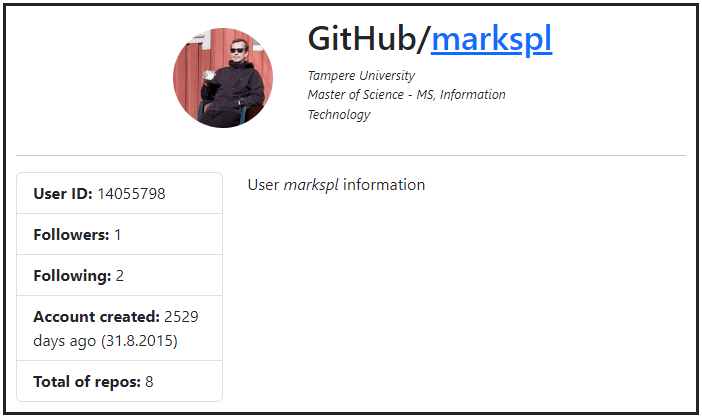
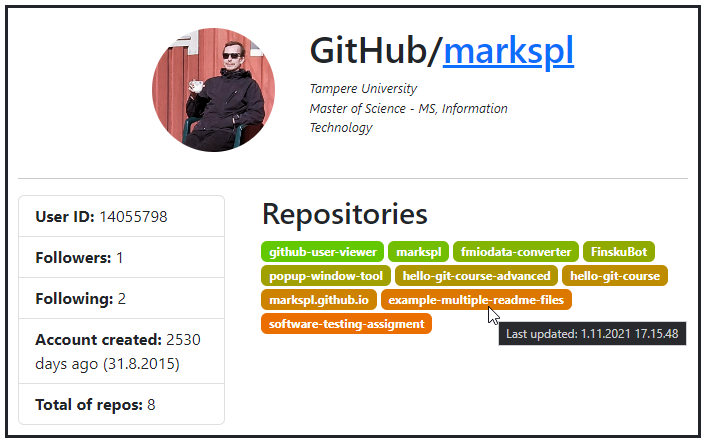
Show repositories arranged by last updated with colours

Changed region(s): [[0.0, 0.0, 1.0, 0.9952], [0.4188, 0.0622, 0.8376, 0.311], [0.2094, 0.0622, 0.3889, 0.3732]]

diff --git a/src/components/Repositories.jsx b/src/components/Repositories.jsx
@@ -1,0 +1,83 @@
+import React from "react";
+
+import { Container, Row, Badge } from "react-bootstrap";
+
+const Repositories = ({ data }) => {
+
+    const length = data.length;
+
+    const sortByUpdated = (array) => {
+
+        // Sort by comparing element.updated_at
+        const sorter = () => {
+            return function (a, b) {
+                if (a["updated_at"] < b["updated_at"]) return 1;
+                else if (a["updated_at"] > b["updated_at"]) return -1;
+                else return 0;
+            }
+        }
+
+        // Return sorted array
+        return (array.sort(sorter()))
+    }
+
+    if (data !== []) {
+        sortByUpdated(data);
+    };
+
+    const calculateBackground = (index) => {
+        //rpg(100,200,0) green
+        //rpg(255,100,0) red
+        //155 / -100
+        const [origR, origG, R, G] = [100, 200, 155, 100]
+
+        // Value divided by the count of repositories
+        const red = Math.floor(R / length);
+        const green = Math.floor(G / length);
+
+        if (length >= 10) {
+            // More repositores, let's make gradient smooooother
+            return `rgb(${origR + (red * index)}, ${origG - (green * index)}, 0)`;
+        } else {
+            // A few only, let's show only darker green variants
+            return `rgb(${origR + (Math.floor(R / 10) * index)}, ${origG - (Math.floor(G / 10) * index)}, 0)`;
+        }
+    }
+
+    if (data && length > 0) {
+        return (
+            <Container>
+                <h2>Repositories</h2>
+                <div className="badges">
+                    {data.map((element, index) => {
+                        return (
+                            <Badge
+                                key={element.id}
+                                title={`Last updated: ${new Date(element.updated_at).toLocaleDateString("fi-FI")} ${new Date(element.updated_at).toLocaleTimeString("fi-FI")}`}
+                                style={{ marginRight: "4px", background: calculateBackground(index), cursor: "default" }}
+                                bg="">{element.name}</Badge>
+                        );
+                    })}
+                </div>
+            </Container>
+        );
+    } else {
+        return (length === 0 ? (
+            <Container>
+                <Row>
+                    <h2>Repositories</h2>
+                    <p>No repositories</p>
+                </Row>
+            </Container>
+        ) : (
+            <Container>
+                <Row>
+                    <h2>Repositories</h2>
+                    <div>Loading...</div>);
+                </Row>
+            </Container>
+        ));
+    }
+}
+
+export default Repositories;

diff --git a/src/components/User.jsx b/src/components/User.jsx
@@ -4,11 +4,13 @@ import React, { useEffect, useState } from "react";
 import { Row, Col, Container } from "react-bootstrap";
 
 import UserInfo from "./UserInfo";
+import Repositories from "./Repositories";
 
 const axios = require("axios");
 
 const Home = () => {
     const [userInfo, setUserInfo] = useState({});
+    const [repositories, setRepoInfo] = useState([]);
 
     const options = {
         method: "get",
@@ -21,16 +23,35 @@ const Home = () => {
     // Get user data from GitHub API only when page is reloaded
     useEffect(() => {
         getUserInfo();
+        getRepositories();
     }, []);
 
     const getUserInfo = () => {
-        axios(options)
-            .then(res => {
-                setUserInfo(res.data);
-            })
-            .catch(err => {
-                console.log(`Error: ${err}`);
-            });
+        axios({
+            method: "get",
+            url: "https://api.github.com/users/markspl",
+            headers: {
+                "Content-Type": "application/json",
+            }
+        }).then(res => {
+            setUserInfo(res.data);
+        }).catch(err => {
+            console.log(`Error: ${err}`);
+        });
+    };
+
+    const getRepositories = () => {
+        axios({
+            method: "get",
+            url: "https://api.github.com/users/markspl/repos",
+            headers: {
+                "Content-Type": "application/json",
+            }
+        }).then(res => {
+            setRepoInfo(res.data);
+        }).catch(err => {
+            console.log(`Error: ${err}`);
+        });
     };
 
     if (!userInfo) {
@@ -67,7 +88,8 @@ const Home = () => {
                             <UserInfo data={userInfo} />
                         </Col>
                         <Col>
-                            <p>User <i>{userInfo.login}</i> information</p>
+                            {(userInfo ? <Repositories data={repositories} />
+                            : <h2>Loading...</h2>)}
                         </Col>
                     </Row>
                 </>

diff --git a/public/index.css b/public/index.css
@@ -13,11 +13,11 @@
     box-sizing: border-box;
 }
 
-.item-left{
+.item-left {
     width: 25%;
 }
 
-.item-right{
+.item-right {
     width: 75%;
     padding-left: 10px;
     padding-left: 10px;
@@ -41,7 +41,8 @@
 .userBio {
     font-style: italic;
     font-size: small;
-    white-space: pre-wrap; /* so <br> would work */
+    /* so <br> would work */
+    white-space: pre-wrap;
 }
 
 .userInfoItem {
